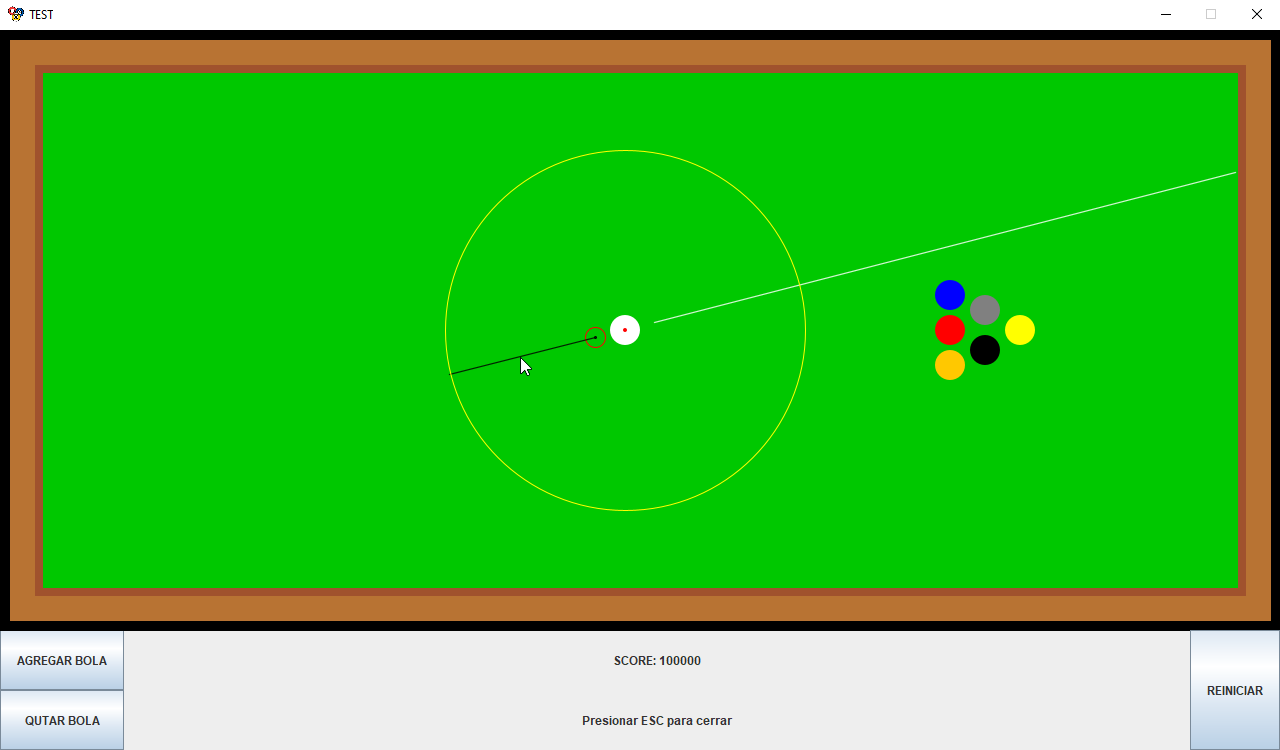
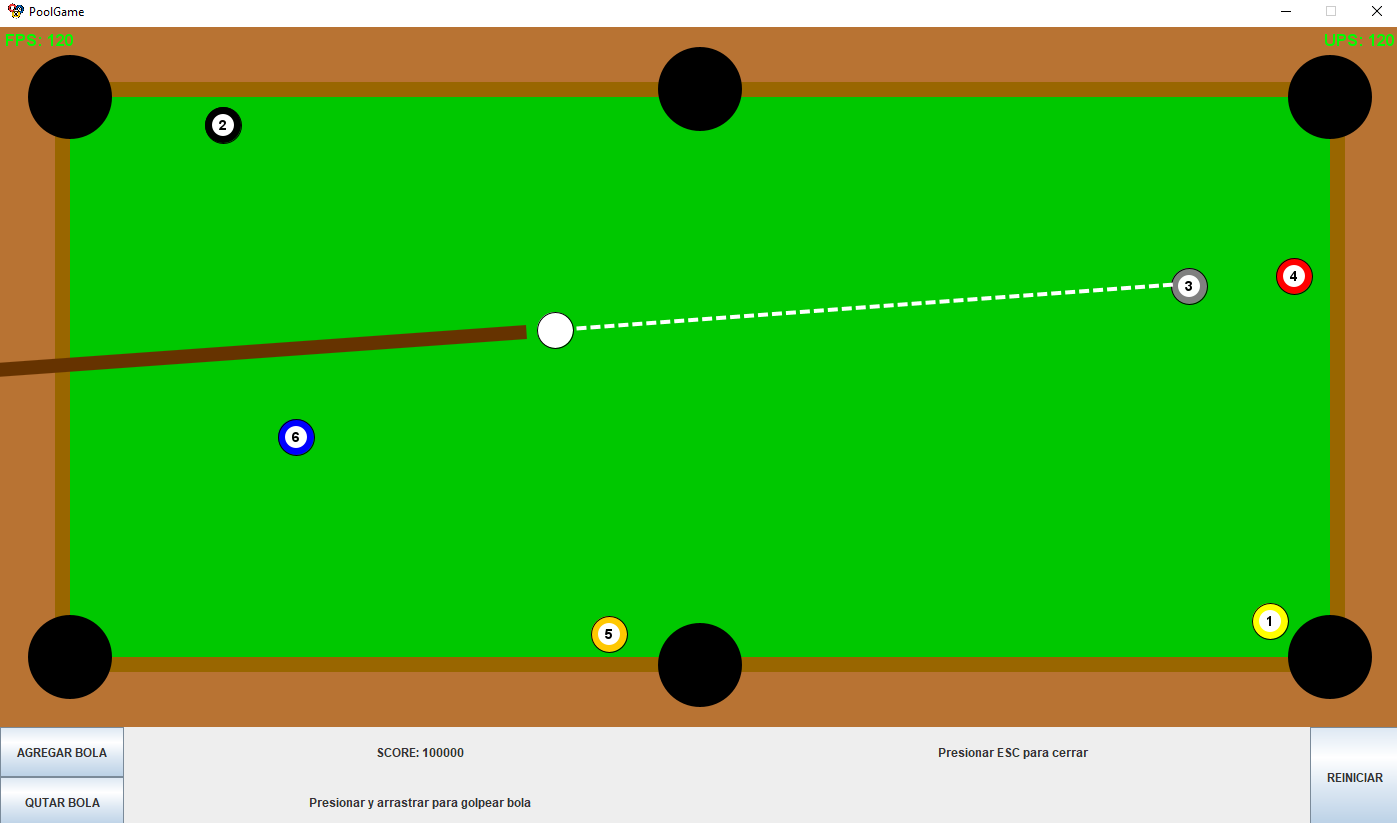
Actualizar readme

diff --git a/README.md b/README.md
@@ -22,13 +22,13 @@
     <li>
       <a href="#sobre-el-proyecto">Sobre el proyecto</a>
     </li>
-	<li><a href="#objetivos">Objetivos</a></li>
+ <li><a href="#objetivos">Objetivos</a></li>
     <li>
       <a href="#instrucciones">Instrucciones</a>
       <ul>
         <li><a href="#prerequisitos">Prerequisitos</a></li>
         <li><a href="#instalación">Instalación</a></li>
-		<li><a href="#controles">Controles</a></li>
+  <li><a href="#controles">Controles</a></li>
       </ul>
     </li>
     <li><a href="#links-utiles">Links utiles</a></li>
@@ -39,13 +39,16 @@
 
 <!-- ABOUT THE PROJECT -->
 ## Sobre el proyecto
+
 ### Equipo
+
 * Alonso Bustos (Ado-do)
 * Cristobal Figueroa (xKroZzar)
 * Lirayen Martinez (liraa001)
 
 ### Fechas Importantes
-- [ ] Entrega Github Proyecto (07/12)
+
+* [ ] ~~Entrega Github Proyecto (07/12)~~ -> Entrega 12/12
 
 <p align="right">(<a href="#top">volver a inicio</a>)</p>
 
@@ -53,42 +56,50 @@
 
 * Tema 6: Mesa de pool
 
-> En el panel central, con vista aérea, deben aparecer bolas en posiciones randómicas, una blanca y otras de color. El taco debe aparecer automáticamente apuntando a la bola blanca y debe ser manejado con troles GUI (teclado y mouse), para golpear bola blanca. Las bolas deben tener la física de impactos, inercia y roce.  En las esquinas debe haber troneras donde pueden caer. La cantidad de bolas debe ser definible por interfaz GUI. Habrá bandas para rebote de las bolas y si caen en las troneras, otorgan puntos.  Reiniciar se debe hacer por controles GUI. Si se cae la bola de color y la blanca no hay puntaje, si cae la blanca se resta puntaje. 
+> En el panel central, con vista aérea, deben aparecer bolas en posiciones randómicas, una blanca y otras de color. El taco debe aparecer automáticamente apuntando a la bola blanca y debe ser manejado con troles GUI (teclado y mouse), para golpear bola blanca. Las bolas deben tener la física de impactos, inercia y roce.  En las esquinas debe haber troneras donde pueden caer. La cantidad de bolas debe ser definible por interfaz GUI. Habrá bandas para rebote de las bolas y si caen en las troneras, otorgan puntos.  Reiniciar se debe hacer por controles GUI. Si se cae la bola de color y la blanca no hay puntaje, si cae la blanca se resta puntaje.
 
 <!-- ROADMAP -->
 ## Objetivos
+
 ### Principales
-- [ ] Terminar diseño final de GUI
-	- [X] ~~**Primera versión del diseño (Prototipo de interfaz)**~~
-	- [ ] Subir imagen de la interfaz prototipo
-- [ ] Terminar informe
-	- [X] ~~Enunciado general del tema, junto a propuestas del equipo~~
-	- [X] ~~"Use Case Diagram" con funciones principales de la aplicacion/juego~~
-	- [ ] UML del contenido grafico (GUI)
-	- [ ] "TO-DO List" de cosas que no sabes hacer, y nuestro avance respecto a ellas
+
+* [ ] Terminar diseño final
+  * [X] ~~**Primera versión del diseño (Prototipo de interfaz)**~~
+  * [X] ~~Subir imagen de la interfaz prototipo~~
+  * [ ] Terminar diseño final de GUI
+
+* [ ] Terminar informe
+  * [X] ~~Enunciado general del tema, junto a propuestas del equipo~~
+  * [X] ~~"Use Case Diagram" con funciones principales de la aplicacion/juego~~
+  * [ ] UML del contenido grafico (GUI)
+  * [X] ~~"TO-DO List" de cosas que no sabes hacer, y nuestro avance respecto a ellas~~
+
 ### TO-DO List
-- [ ] Realizar interfaz de taco e input
-	- [X] ~~Mover punto respecto a un punto central según movimiento del mouse~~
-	- [ ] Dibujar respecto a este input
-- [ ] Simular fisicas
-	- [ ] Lanzamiento de pelota y controlar fuerza de este
-	- [ ] Rebote y colisiones (Bola->Banda y Bola->Bola)
-	- [ ] Inercia
-- [ ] Generacion de bolas
-	- [ ] Generacion en posiciones aleatorias
-	- [ ] Controlar cantidad generada por medio de GUI
-- [ ] Sistema de puntaje
-	- [ ] Logica de troneras
-	- [ ] Asignar puntaje según tipo de bola insertada en tronera
-- [ ] Reiniciar por medio de GUI
-- [ ] Nuevas Funcionalidades
-	- [ ] Multijugador
+
+* [X] ~~Realizar interfaz de taco e input~~  _*Solucionado utilizando package "geometricas"_
+  * [X] ~~Mover punto respecto a un punto central según movimiento del mouse~~
+  * [X] ~~Dibujar respecto a este input~~
+
+* [X] ~~Simular físicas~~ _*Solucionado agregando clase Vector2D_
+  * [X] ~~Lanzamiento de pelota y controlar fuerza de este~~
+  * [X] ~~Rebote y colisiones (Bola->Banda y Bola->Bola)~~
+  * [X] ~~Inercia~~
+* [ ] Generación de bolas
+  * [ ] Generación en posiciones aleatorias
+  * [ ] Controlar cantidad generada por medio de GUI
+* [ ] Sistema de puntaje
+  * [ ] Lógica de troneras
+  * [ ] Asignar puntaje según tipo de bola insertada en tronera
+* [ ] Reiniciar por medio de GUI
+* [ ] Nuevas Funcionalidades
+  * [ ] Multijugador
 
 <p align="right">(<a href="#top">volver a inicio</a>)</p>
 
 <!-- GETTING STARTED -->
 ## Instrucciones
-Aqui dar instrucciones de como montar el repositorio localmente y como compilar el juego, ademas de como jugarlo
+
+Aquí dar instrucciones de como montar el repositorio localmente y como compilar el juego, ademas de como jugarlo
 
 ### Prerequisitos
 
@@ -99,7 +110,7 @@ Dependencias para poder compilar
 
 ### Instalación
 
-Aqui dar instruccion para configurar, compilar e inicar juego
+Aquí dar instrucción para configurar, compilar e iniciar juego
 
 1. Descargar el repositorio
 2. ...
@@ -107,30 +118,37 @@ Aqui dar instruccion para configurar, compilar e inicar juego
 ### Controles
 
 En menús:
+
 * Mouse¿
 * <kbd>↑</kbd>, <kbd>↓</kbd>, <kbd>←</kbd> y <kbd>→</kbd>: Moverse por el menú
 * <kbd>ENTER</kbd> y <kbd>ESPACIO</kbd>: Confirmar
 * <kbd>ESC</kbd>: Salir del juego
 
 En partida:
-* Mouse¿
+
+* Mouse: Mover para elegir dirección y arrastrar para elegir potencia
 * <kbd>ESC</kbd>: Pausar
-* <kbd>R</kbd>: Reinciar
+* <kbd>R</kbd>: Reiniciar
+
 <p align="right">(<a href="#top">volver a inicio</a>)</p>
 
 ### Diagramas
+
 <img src="/diagramas/Diagramauso.png" alt="DiagramaUso">
-Propotipo Diagrama de uso
+Prototipo Diagrama de uso
 
 <!-- ACKNOWLEDGMENTS -->
-## Links utiles
-Aqui pondremos links utiles para el proyecto, ya sean videos, documentacion de java o ideas para programar el Pool :)
+## Links útiles
+
+Aquí pondremos links útiles para el proyecto, ya sean videos, documentación de java o ideas para programar el Pool :)
 
 ### Docs
+
 * [Pagina tutorial para juegos 2D en Java](https://zetcode.com/javagames/)
 * [JavaPool](http://www.mscs.mu.edu/~mikes/174.2002/demos/feb4/JavaPool.html) del libro "[Java Game Programming for Dummies](https://theswissbay.ch/pdf/Gentoomen%20Library/Programming/Java/IDG%20-%20Java%20Game%20Programming%20for%20Dummies.pdf)"
 
 ### Videos
+
 * [A New Beginning - Episode #01 - Java Game Development Tutorial](https://www.youtube.com/watch?v=6_N8QZ47toY&list=PL4rzdwizLaxYmltJQRjq18a9gsSyEQQ-0&index=1)
 * [How to Make a 2D Game in Java #1 - The Mechanism of 2D Games](https://www.youtube.com/watch?v=om59cwR7psI&list=PL_QPQmz5C6WUF-pOQDsbsKbaBZqXj4qSq)
 * [Programming Animation: Billiard Ball Collisions](https://youtu.be/guWIF87CmBg)
@@ -138,5 +156,6 @@ Aqui pondremos links utiles para el proyecto, ya sean videos, documentacion de j
 * [Programming Balls #1 Circle Vs Circle Collisions C++](https://youtu.be/LPzyNOHY3A4)
 
 ### Sobre github
+
 * [Readme formatos y syntaxis](https://docs.github.com/en/get-started/writing-on-github/getting-started-with-writing-and-formatting-on-github/basic-writing-and-formatting-syntax)
 * [Video funcionamiento de github](https://youtu.be/8Dd7KRpKeaE)
